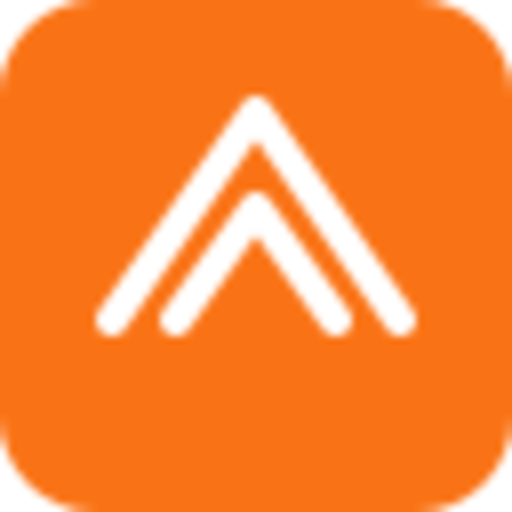
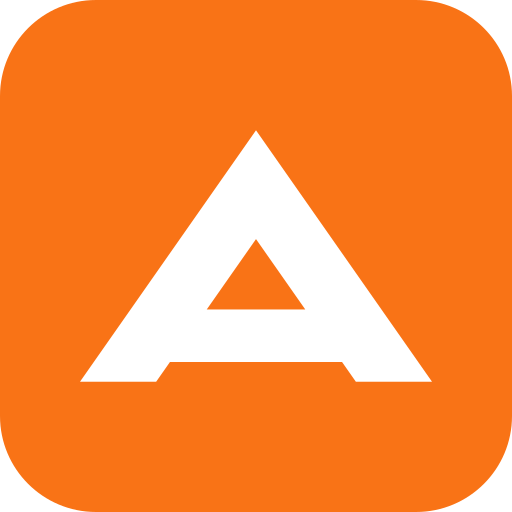
Refresh power from powers/great-arrow/

diff --git a/POWER.md b/POWER.md
@@ -1,16 +1,16 @@
 ---
 name: "great-arrow"
-displayName: "Great Arrow Digital"
-description: "Connect to your Great Arrow Digital workspace — semantic memory, AI agents, integrations, calendar, email, and 306 MCP tools in one server."
+displayName: "GreatArrow.ai"
+description: "Connect to your GreatArrow.ai workspace — semantic memory, AI agents, integrations, calendar, email, and 313 MCP tools in one server."
 keywords: ["great-arrow", "gad", "memory", "workspace", "rag", "agents"]
 author: "Manito AI"
 ---
 
-# Great Arrow Digital
+# GreatArrow.ai
 
 ## Overview
 
-Great Arrow Digital (GAD) is an AI workspace platform that gives every connected AI assistant access to a shared semantic memory, 22 agents (1 orchestrator + 21 specialists), and deep integrations with Google, Microsoft, Slack, Notion, GitHub, and more — all through a single MCP server.
+GreatArrow.ai (GAD) is an AI workspace platform that gives every connected AI assistant access to a shared semantic memory, 22 agents (1 orchestrator + 21 specialists), and deep integrations with Google, Microsoft, Slack, Notion, GitHub, and more — all through a single MCP server.
 
 Once connected, your AI assistant can:
 
@@ -26,7 +26,7 @@ All data is workspace-scoped with Row Level Security. Every tool call is authent
 
 ### Prerequisites
 
-- A Great Arrow Digital account at https://www.greatarrow.ai
+- A GreatArrow.ai account at https://www.greatarrow.ai
 - At least one workspace (created automatically on first sign-in)
 
 ### Step 1: Mint a Personal Access Token
@@ -145,11 +145,11 @@ github_issue_create({ owner: "org", repo: "app", title: "Bug: ..." })
 
 ## Dynamic Tool Discovery
 
-This Power connects as `kiro-power`, so a new session starts with a focused core set of ~23 tools. That keeps context lean, improves tool-selection accuracy, and — importantly — keeps the `tools/list` response small enough for Kiro to accept (the full 306-tool surface exceeds Kiro's request-size limit and fails with "Improperly formed request"). Two meta-tools let you expand the surface on demand:
+This Power connects as `kiro-power`, so a new session starts with a focused core set of ~23 tools. That keeps context lean, improves tool-selection accuracy, and — importantly — keeps the `tools/list` response small enough for Kiro to accept (the full 313-tool surface exceeds Kiro's request-size limit and fails with "Improperly formed request"). Two meta-tools let you expand the surface on demand:
 
 ### `tools_discover` — Browse the Full Catalog
 
-Query the complete tool catalog (306 tools) grouped by domain. Supports natural-language search and returns ML-powered recommendations based on your usage patterns.
+Query the complete tool catalog (313 tools) grouped by domain. Supports natural-language search and returns ML-powered recommendations based on your usage patterns.
 
 **Parameters:**
 
@@ -192,7 +192,7 @@ tools_enable({ tools: ["email_send", "github_issue_create"] })
 - **Expand on demand**: Use `tools_discover` to find what you need, then `tools_enable` to activate
 - **Recommendations**: The `initialize` response includes a `recommended_tools` field with personalized suggestions based on your history with this client
 - **Persistent within a session**: Tools you enable stay visible for the rest of the session; re-enable after a reconnect
-- **Enable in small batches**: Add the handful of tools you need for the task. Avoid `tools_enable({ tools: ["*"] })` on Kiro — enabling all 274 puts every definition back into `tools/list` and re-trips Kiro's request-size limit. The wildcard is meant for clients without that cap.
+- **Enable in small batches**: Add the handful of tools you need for the task. Avoid `tools_enable({ tools: ["*"] })` on Kiro — enabling all 313 puts every definition back into `tools/list` and re-trips Kiro's request-size limit. The wildcard is meant for clients without that cap.
 
 ### Recommended Workflow
 
@@ -204,7 +204,7 @@ tools_enable({ tools: ["email_send", "github_issue_create"] })
 
 ## Tool Categories
 
-The server exposes 306 tools across 5 scopes:
+The server exposes 313 tools across 5 scopes:
 
 | Scope              | Tools                                                                                                                                                                                                                                                                                                                                                                                                                                                                                                                                     | Purpose                              |
 | ------------------ | ----------------------------------------------------------------------------------------------------------------------------------------------------------------------------------------------------------------------------------------------------------------------------------------------------------------------------------------------------------------------------------------------------------------------------------------------------------------------------------------------------------------------------------------- | ------------------------------------ |
@@ -255,7 +255,7 @@ The server exposes 306 tools across 5 scopes:
 
 ### Error: "Improperly formed request" / no tools appear
 
-**Cause:** Kiro rejected an oversized `tools/list` response. This happens when the server sends the full 306-tool surface instead of the curated set.
+**Cause:** Kiro rejected an oversized `tools/list` response. This happens when the server sends the full 313-tool surface instead of the curated set.
 **Solution:**
 
 1. Confirm `X-MCP-Client` is set to `kiro-power` (not `kiro`) in your `mcp.json` headers — `kiro` receives the full surface (it's meant for the stdio proxy).
@@ -266,7 +266,7 @@ The server exposes 306 tools across 5 scopes:
 
 **IMPORTANT:** Before using this power, replace the following placeholder in `mcp.json`:
 
-- **`YOUR_GAD_TOKEN`**: Your personal access token for Great Arrow Digital.
+- **`YOUR_GAD_TOKEN`**: Your personal access token for GreatArrow.ai.
   - **How to get it:**
     1. Sign in at https://www.greatarrow.ai
     2. Go to https://www.greatarrow.ai/install

diff --git a/README.md b/README.md
@@ -1,10 +1,10 @@
 <p align="center">
-  <img src="icon.png" alt="Great Arrow Digital" width="128" height="128">
+  <img src="icon.png" alt="GreatArrow.ai" width="128" height="128">
 </p>
 
-# Great Arrow Digital — Kiro Power
+# GreatArrow.ai — Kiro Power
 
-Connect Kiro to your [Great Arrow Digital](https://www.greatarrow.ai) workspace:
+Connect Kiro to your [GreatArrow.ai](https://www.greatarrow.ai) workspace:
 persistent semantic memory shared across every AI you use, 22 agents, and deep
 integrations (Google, Microsoft, Slack, Notion, GitHub, and more) — all through
 a single MCP server.
